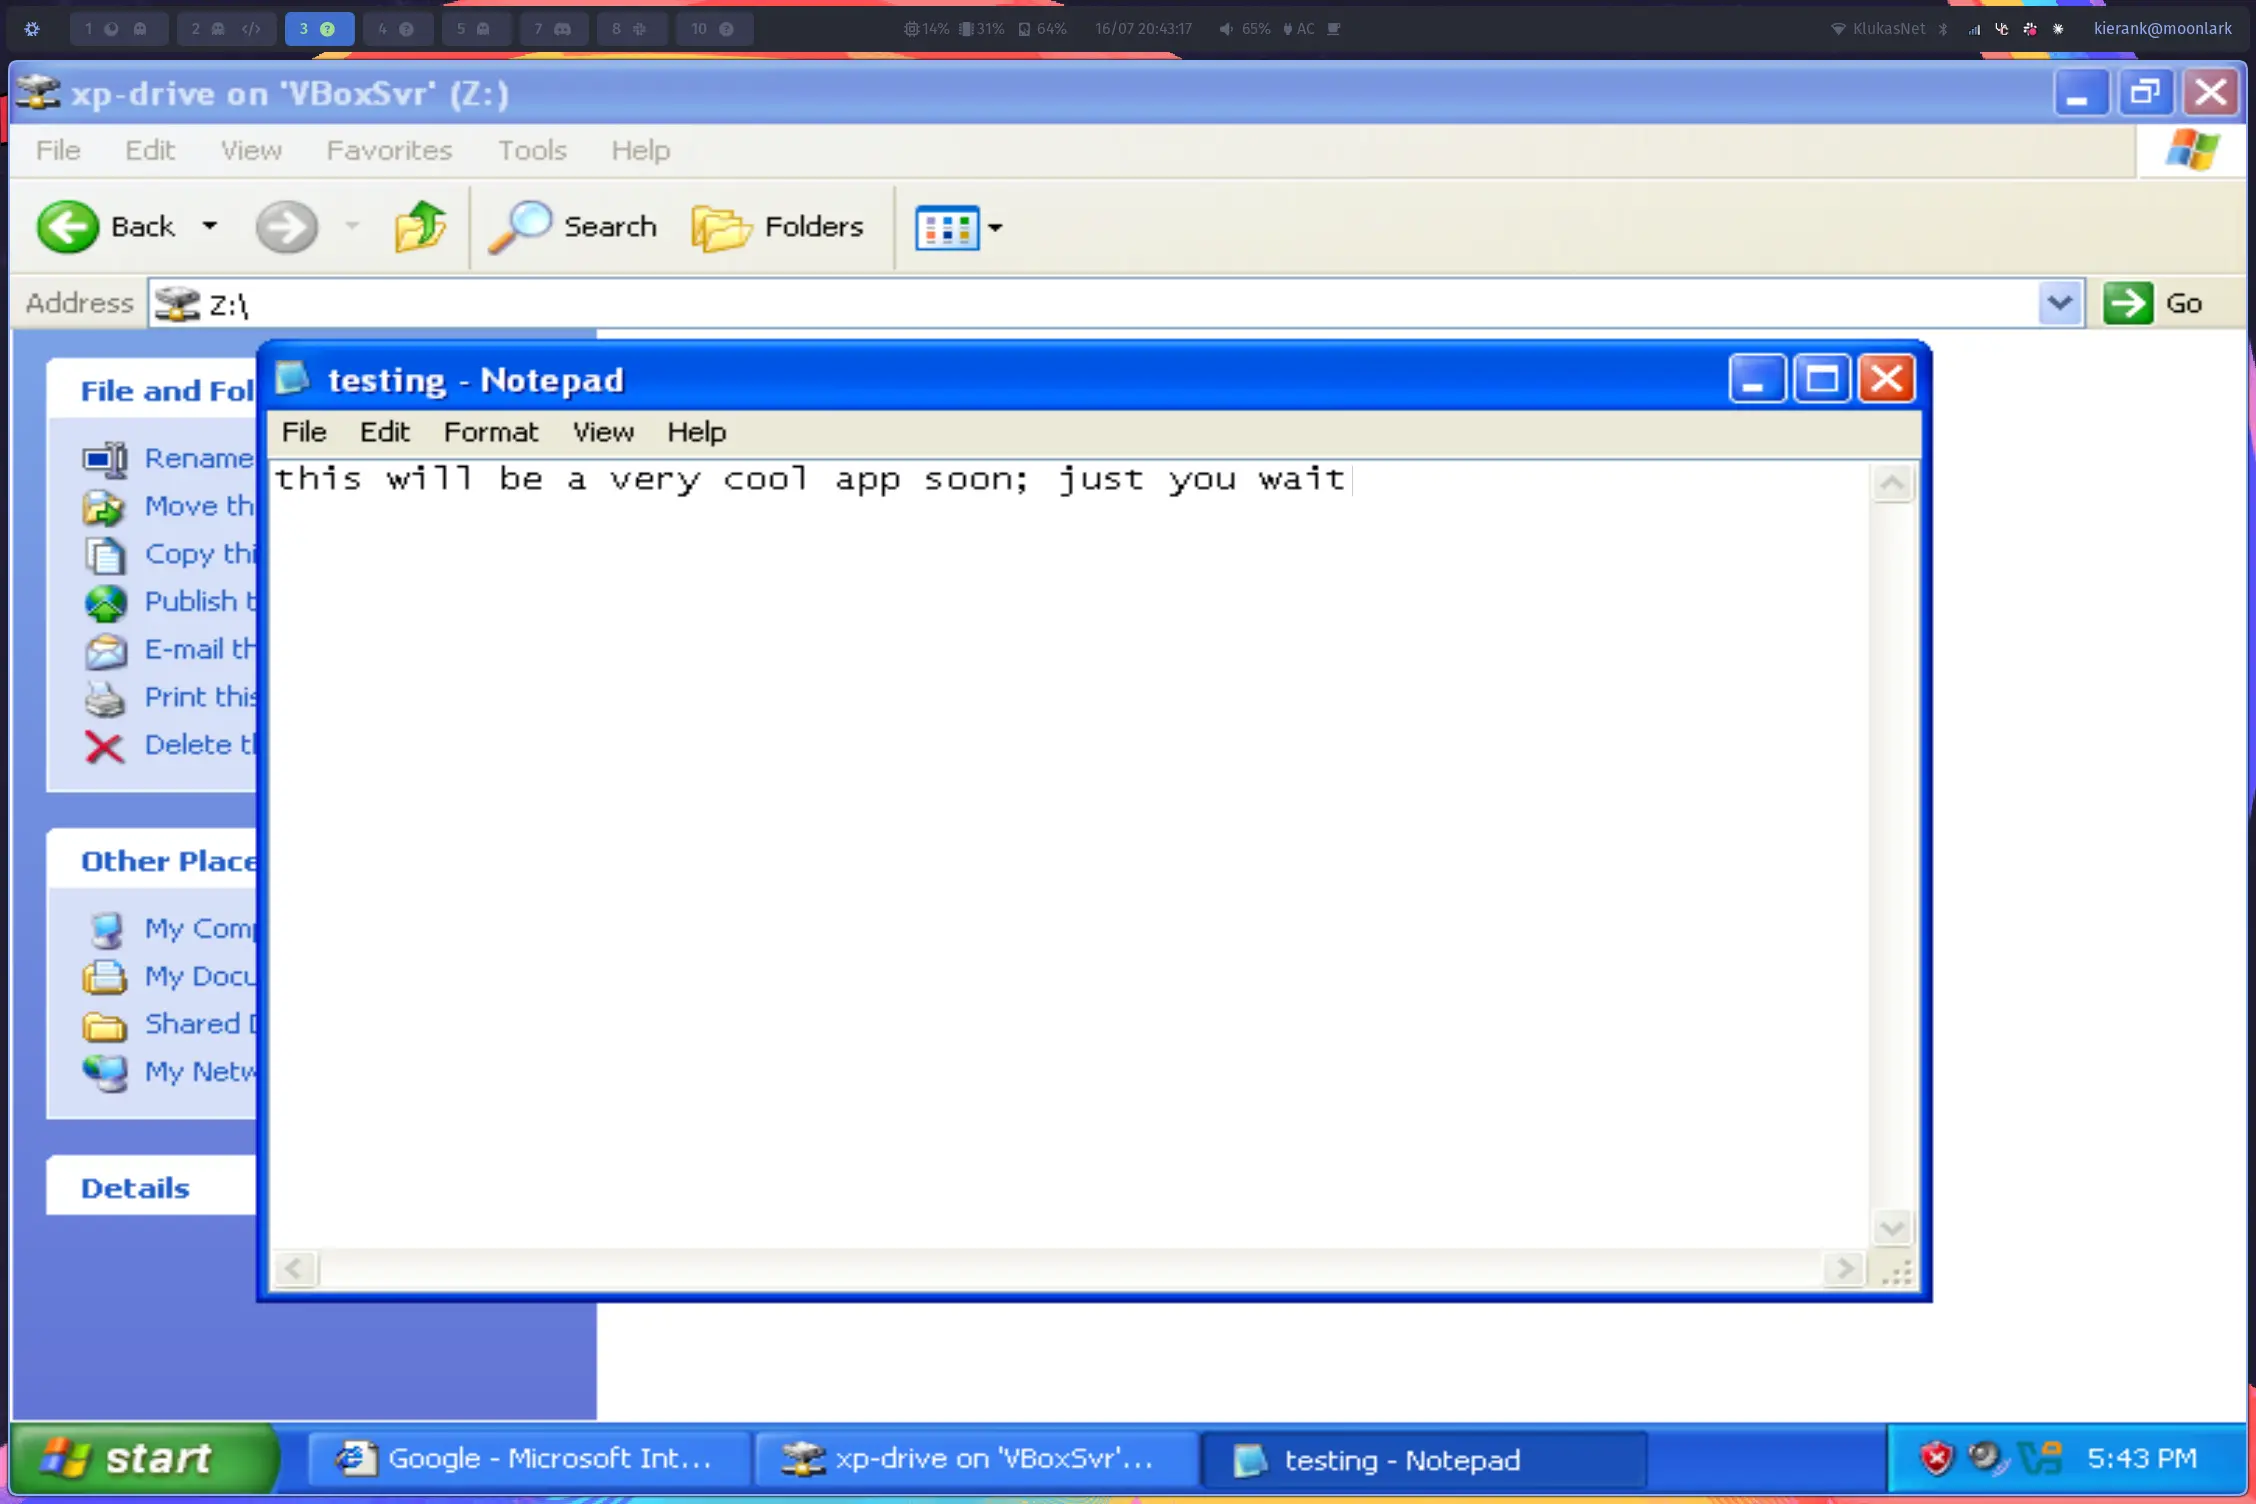
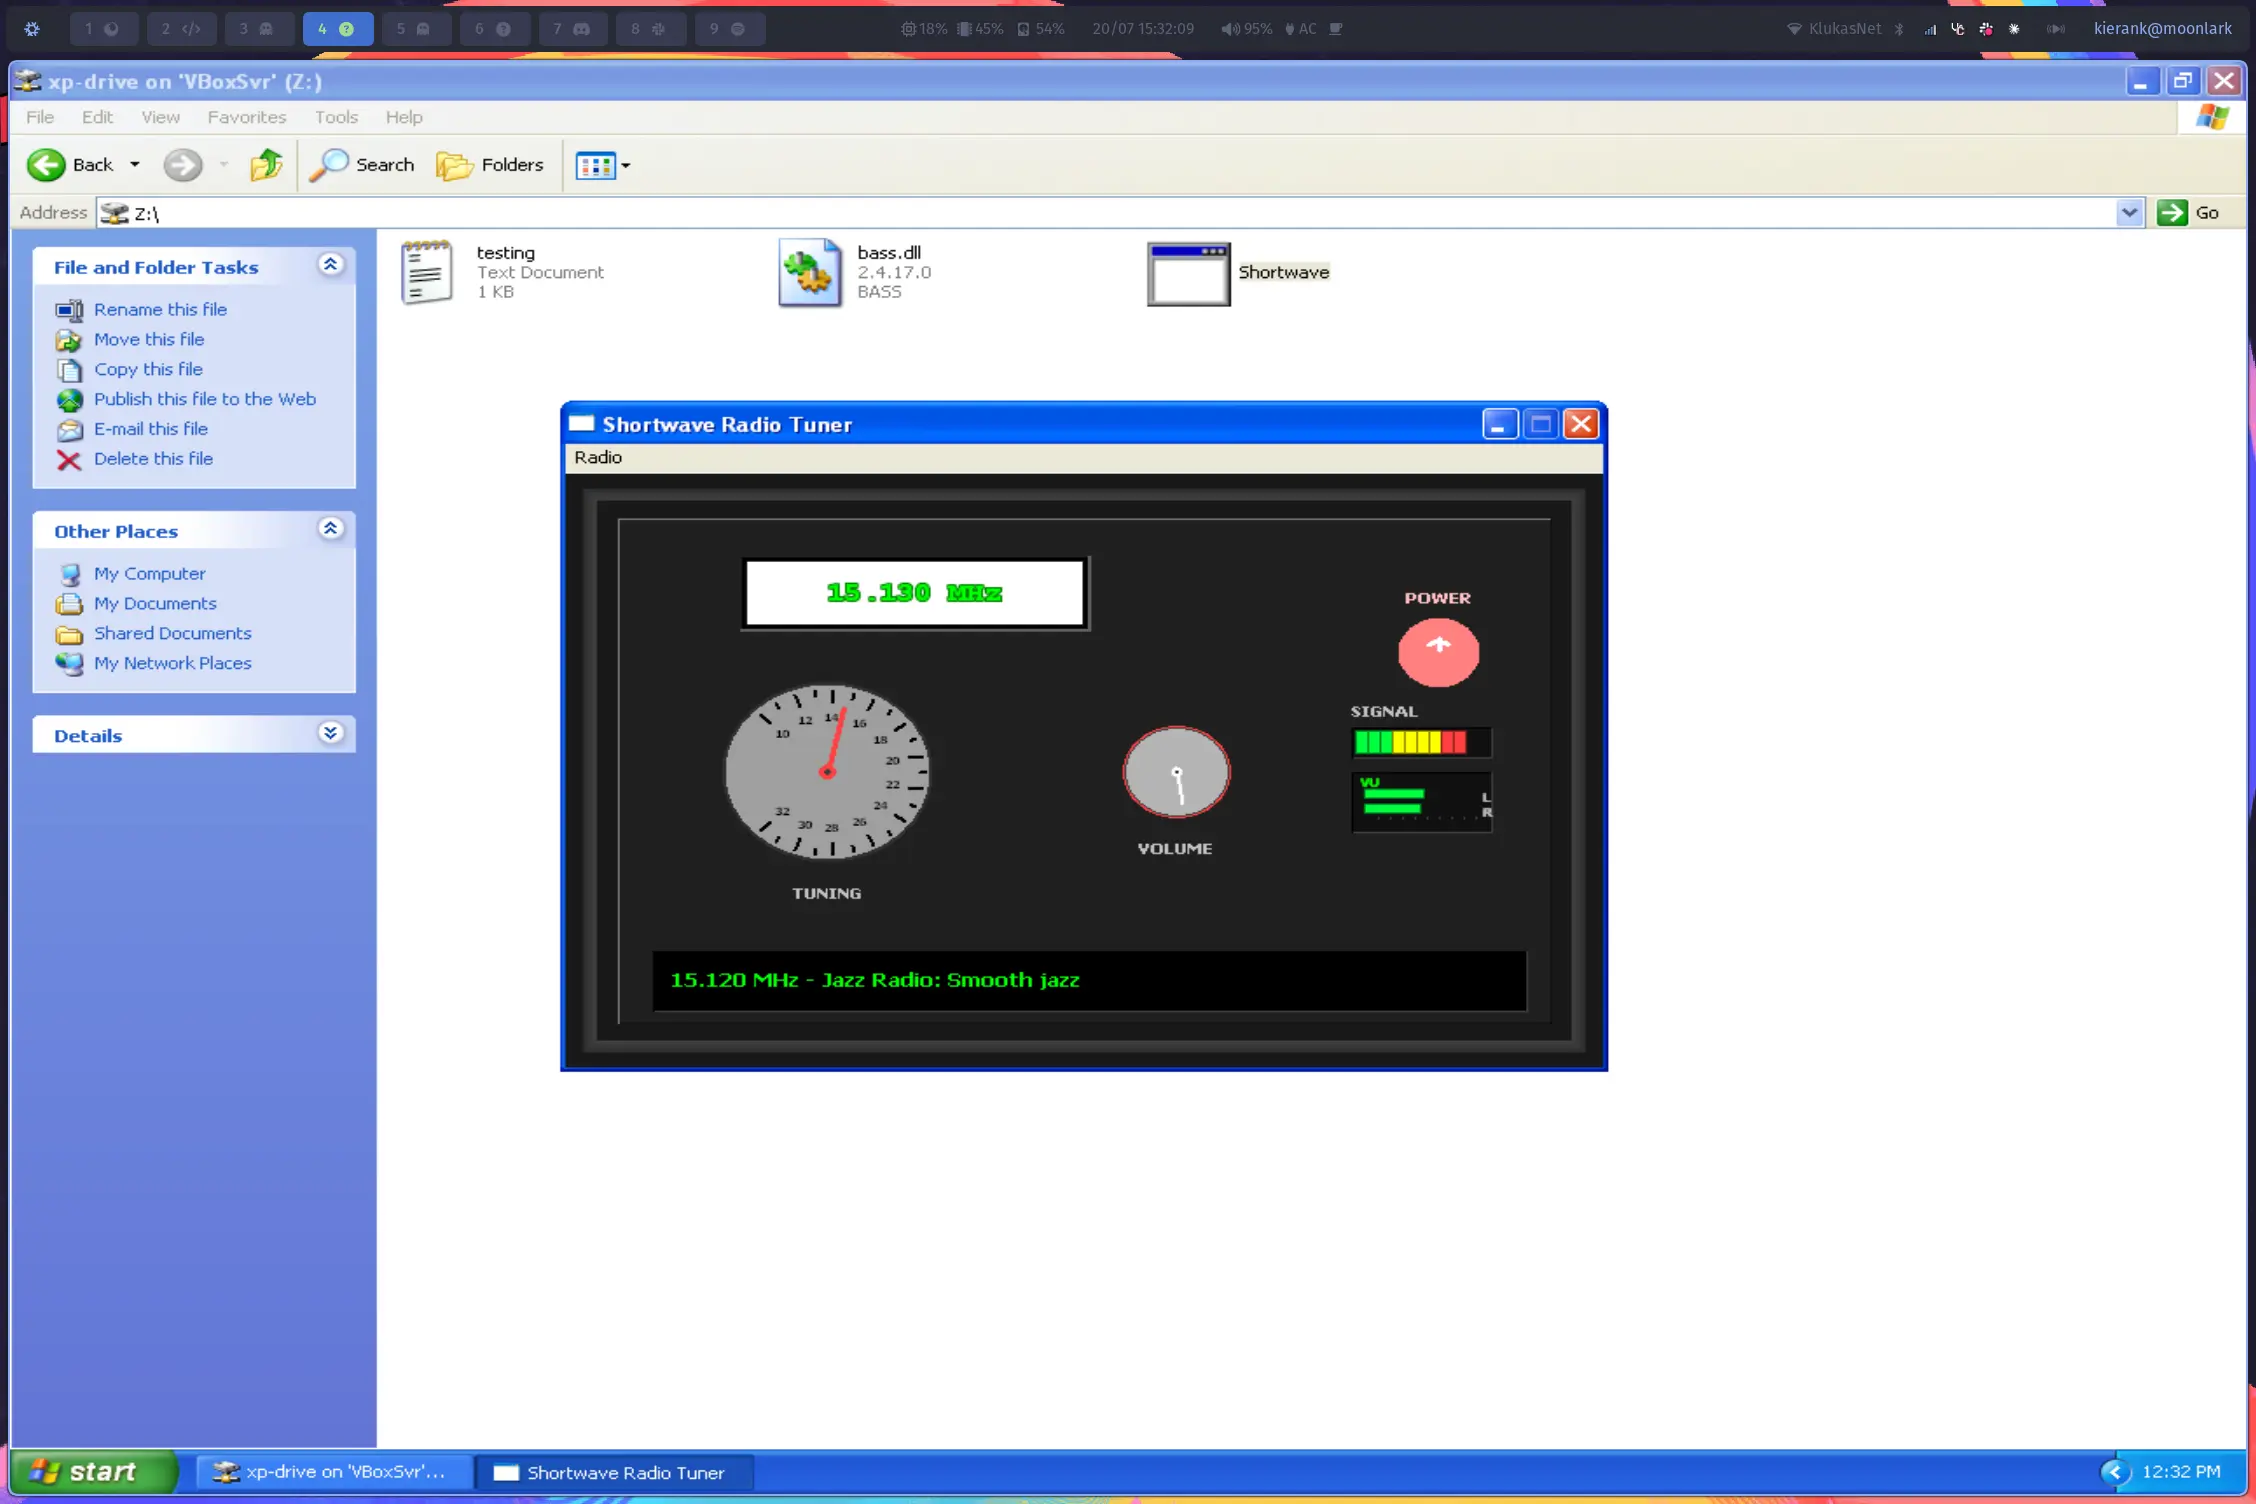
docs: update the image and add a stations guide

diff --git a/README.md b/README.md
@@ -1,53 +1,27 @@
 # Shortwave
 
-an app for [rewind](https://rewind.hackclub.com/#)
+a vintage shortwave radio tuner with internet streaming for [rewind](https://rewind.hackclub.com/#)
 
-![a screenshot of windows xp with a text editor open saying "this will be a very cool app soon; just you wait"](https://raw.githubusercontent.com/taciturnaxolotl/shortwave/main/.github/images/ss.webp)
+![a screenshot of windows xp with the app open to Jazz Radio: Smooth Jazz](https://raw.githubusercontent.com/taciturnaxolotl/shortwave/main/.github/images/ss.webp)
 
-## Install
+### Radio Stations
 
-You can download a pre-built binary from the releases or build it yourself using the nix flake.
+| Frequency (MHz) | Station Name         | Description                    |
+|-----------------|---------------------|--------------------------------|
+| 10.230          | SomaFM Groove       | Downtempo and chillout         |
+| 11.470          | WBGO Jazz88         | Jazz from Newark               |
+| 12.650          | Radio Paradise      | Eclectic music mix             |
+| 13.890          | Classical Music     | Classical radio                |
+| 15.120          | Jazz Radio          | Smooth jazz                    |
+| 16.350          | FIP                 | Eclectic French radio          |
+| 18.810          | TSF Jazz            | French jazz radio              |
+| 20.040          | Dublab              | Electronic and experimental    |
+| 21.270          | BBC World Service   | Global news and culture        |
+| 23.730          | WFMU                | Freeform experimental radio    |
+| 24.960          | ChillHop Music      | Lo-fi hip hop                  |
+| 27.420          | Worldwide FM        | Global music discovery         |
 
-## Development
-
-this project uses nix for cross-compilation to windows xp. the key was using an older nixpkgs (22.05) since newer mingw toolchains use windows apis that don't exist in xp.
-
-### Quick Start
-
-```bash
-# enter the dev environment (or use direnv)
-nix develop
-
-# build the app
-nix build
-
-# deploy to my xp vm folder
-deploy-to-xp
-```
-
-### Editor Setup (Zed)
-
-to get proper intellisense for win32 apis in zed:
-
-```bash
-# generate .clangd config with proper mingw headers
-setup-dev
-
-# restart zed
-```
-
-this creates a `.clangd` file that points to the actual mingw-w64 headers and avoids gcc intrinsics that cause clang issues.
-
-### Build Details
-
-- uses mingw-w64 cross-compiler targeting i686-w64-mingw32
-- statically links runtime to avoid dll dependencies  
-- targets windows xp (winver=0x0501) for maximum compatibility
-- older nixpkgs (22.05) prevents "procedure entry point" errors on xp
-
-~
-
-written in cpp. If you have any suggestions or issues feel free to open an issue on my [tangled](https://tangled.sh/@dunkirk.sh/shortwave) knot
+written in cpp; this project uses nix for cross-compilation to windows xp. the key was using an older nixpkgs (22.05) since newer mingw toolchains use windows apis that don't exist in xp. if you have any suggestions or need to open a ticket please do so on my [tangled](https://tangled.sh/@dunkirk.sh/shortwave) knot
 
 <p align="center">
 	<img src="https://raw.githubusercontent.com/taciturnaxolotl/carriage/master/.github/images/line-break.svg" />
